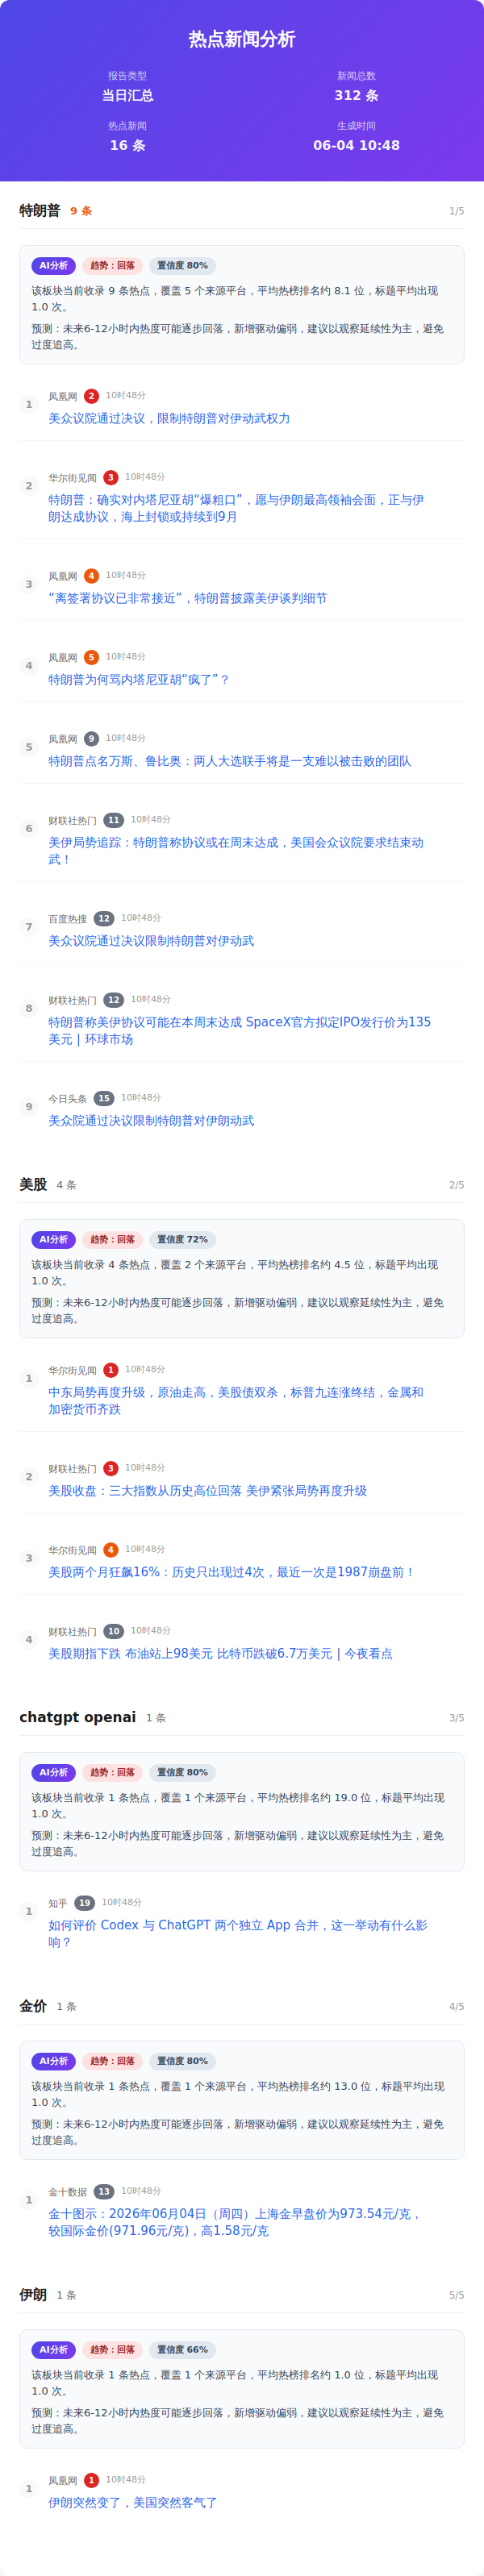
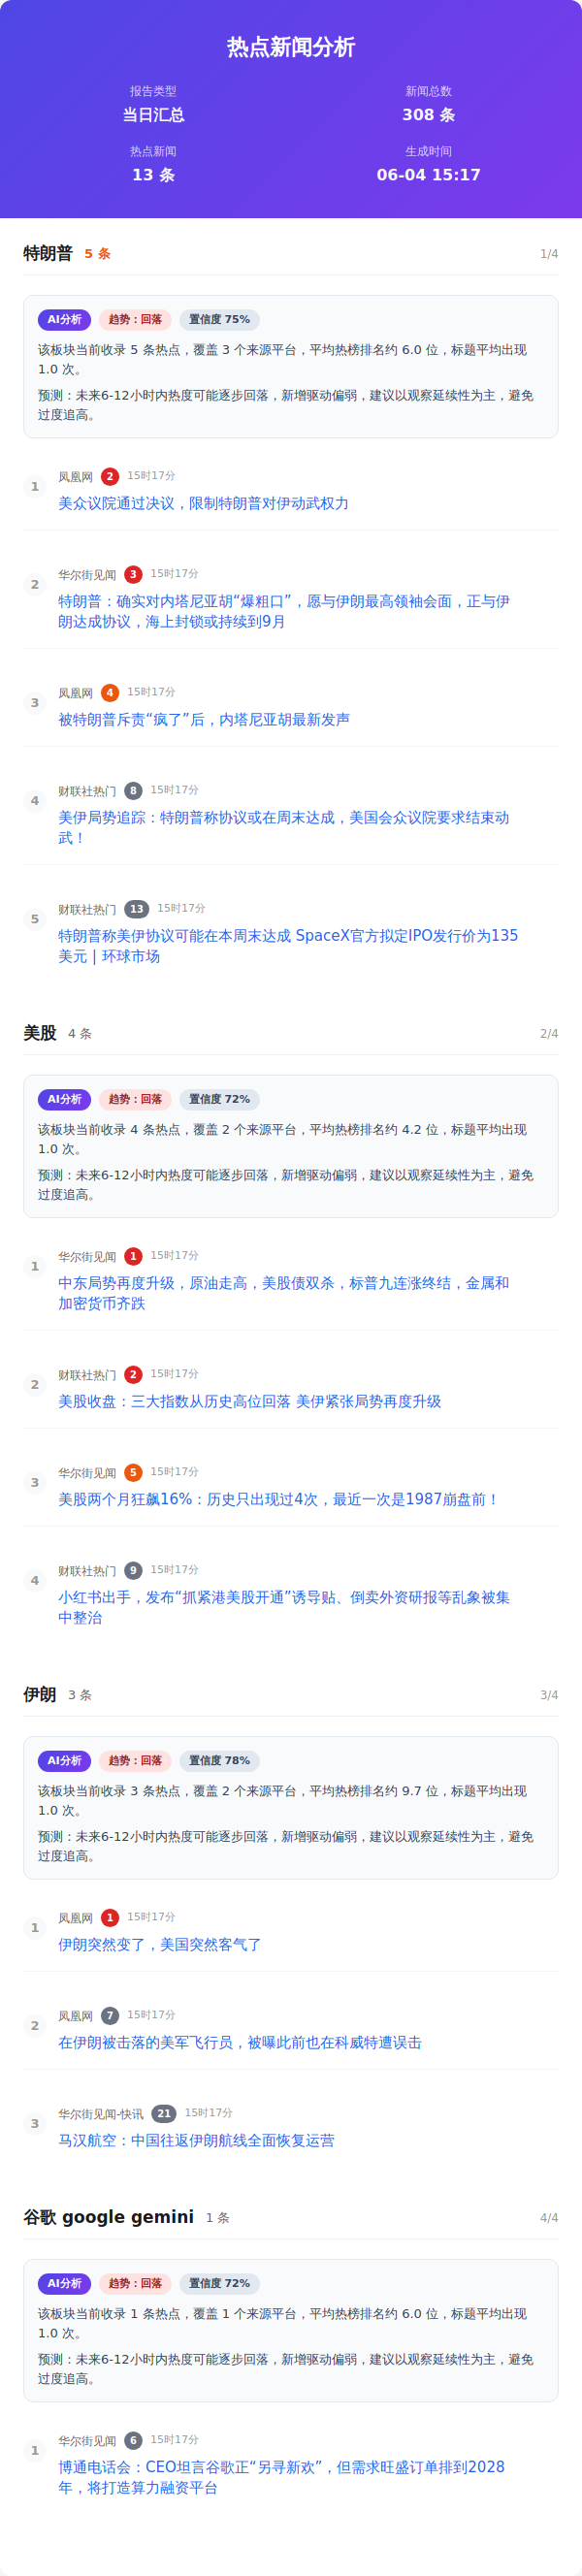
Auto update by GitHub Actions at Thu Jun  4 15:17:40 CST 2026

diff --git a/index.html b/index.html
@@ -455,15 +455,15 @@
                     </div>
                     <div class="info-item">
                         <span class="info-label">新闻总数</span>
-                        <span class="info-value">312 条</span>
+                        <span class="info-value">308 条</span>
                     </div>
                     <div class="info-item">
                         <span class="info-label">热点新闻</span>
-                        <span class="info-value">16 条</span>
+                        <span class="info-value">13 条</span>
                     </div>
                     <div class="info-item">
                         <span class="info-label">生成时间</span>
-                        <span class="info-value">06-04 10:48</span>
+                        <span class="info-value">06-04 15:17</span>
                     </div>
                 </div>
             </div>
@@ -473,24 +473,24 @@
                     <div class="word-header">
                         <div class="word-info">
                             <div class="word-name">特朗普</div>
-                            <div class="word-count warm">9 条</div>
+                            <div class="word-count warm">5 条</div>
                         </div>
-                        <div class="word-index">1/5</div>
+                        <div class="word-index">1/4</div>
                     </div>
                     <div class="ai-insight-card">
                         <div class="ai-insight-top">
                             <span class="ai-badge">AI分析</span>
                             <span class="trend-badge down">趋势：回落</span>
-                            <span class="confidence-pill">置信度 80%</span>
+                            <span class="confidence-pill">置信度 75%</span>
                         </div>
-                        <div class="ai-text">该板块当前收录 9 条热点，覆盖 5 个来源平台，平均热榜排名约 8.1 位，标题平均出现 1.0 次。</div>
+                        <div class="ai-text">该板块当前收录 5 条热点，覆盖 3 个来源平台，平均热榜排名约 6.0 位，标题平均出现 1.0 次。</div>
                         <div class="ai-text">预测：未来6-12小时内热度可能逐步回落，新增驱动偏弱，建议以观察延续性为主，避免过度追高。</div>
                     </div>
                     <div class="news-item ">
                         <div class="news-number">1</div>
                         <div class="news-content">
                             <div class="news-header">
-                                <span class="source-name">凤凰网</span><span class="rank-num top">2</span><span class="time-info">10时48分</span>
+                                <span class="source-name">凤凰网</span><span class="rank-num top">2</span><span class="time-info">15时17分</span>
                             </div>
                             <div class="news-title"><a href="https://news.ifeng.com/c/8tffKr5raZ8" target="_blank" class="news-link">美众议院通过决议，限制特朗普对伊动武权力</a>
                             </div>
@@ -500,7 +500,7 @@
                         <div class="news-number">2</div>
                         <div class="news-content">
                             <div class="news-header">
-                                <span class="source-name">华尔街见闻</span><span class="rank-num top">3</span><span class="time-info">10时48分</span>
+                                <span class="source-name">华尔街见闻</span><span class="rank-num top">3</span><span class="time-info">15时17分</span>
                             </div>
                             <div class="news-title"><a href="https://wallstreetcn.com/articles/3773781" target="_blank" class="news-link">特朗普：确实对内塔尼亚胡“爆粗口”，愿与伊朗最高领袖会面，正与伊朗达成协议，海上封锁或持续到9月</a>
                             </div>
@@ -510,9 +510,9 @@
                         <div class="news-number">3</div>
                         <div class="news-content">
                             <div class="news-header">
-                                <span class="source-name">凤凰网</span><span class="rank-num high">4</span><span class="time-info">10时48分</span>
+                                <span class="source-name">凤凰网</span><span class="rank-num high">4</span><span class="time-info">15时17分</span>
                             </div>
-                            <div class="news-title"><a href="https://news.ifeng.com/c/8tfYHflwBeK" target="_blank" class="news-link">“离签署协议已非常接近”，特朗普披露美伊谈判细节</a>
+                            <div class="news-title"><a href="https://news.ifeng.com/c/8tfsjOCN3Os" target="_blank" class="news-link">被特朗普斥责“疯了”后，内塔尼亚胡最新发声</a>
                             </div>
                         </div>
                     </div>
@@ -520,9 +520,9 @@
                         <div class="news-number">4</div>
                         <div class="news-content">
                             <div class="news-header">
-                                <span class="source-name">凤凰网</span><span class="rank-num high">5</span><span class="time-info">10时48分</span>
+                                <span class="source-name">财联社热门</span><span class="rank-num ">8</span><span class="time-info">15时17分</span>
                             </div>
-                            <div class="news-title"><a href="https://news.ifeng.com/c/8ter8XhY8eS" target="_blank" class="news-link">特朗普为何骂内塔尼亚胡“疯了”？</a>
+                            <div class="news-title"><a href="https://www.cls.cn/detail/2390202" target="_blank" class="news-link">美伊局势追踪：特朗普称协议或在周末达成，美国会众议院要求结束动武！</a>
                             </div>
                         </div>
                     </div>
@@ -530,49 +530,9 @@
                         <div class="news-number">5</div>
                         <div class="news-content">
                             <div class="news-header">
-                                <span class="source-name">凤凰网</span><span class="rank-num ">9</span><span class="time-info">10时48分</span>
-                            </div>
-                            <div class="news-title"><a href="https://news.ifeng.com/c/8tfpnbgvAEj" target="_blank" class="news-link">特朗普点名万斯、鲁比奥：两人大选联手将是一支难以被击败的团队</a>
-                            </div>
-                        </div>
-                    </div>
-                    <div class="news-item ">
-                        <div class="news-number">6</div>
-                        <div class="news-content">
-                            <div class="news-header">
-                                <span class="source-name">财联社热门</span><span class="rank-num ">11</span><span class="time-info">10时48分</span>
-                            </div>
-                            <div class="news-title"><a href="https://www.cls.cn/detail/2390202" target="_blank" class="news-link">美伊局势追踪：特朗普称协议或在周末达成，美国会众议院要求结束动武！</a>
-                            </div>
-                        </div>
-                    </div>
-                    <div class="news-item ">
-                        <div class="news-number">7</div>
-                        <div class="news-content">
-                            <div class="news-header">
-                                <span class="source-name">百度热搜</span><span class="rank-num ">12</span><span class="time-info">10时48分</span>
-                            </div>
-                            <div class="news-title"><a href="https://www.baidu.com/s?wd=%E7%BE%8E%E4%BC%97%E8%AE%AE%E9%99%A2%E9%80%9A%E8%BF%87%E5%86%B3%E8%AE%AE%E9%99%90%E5%88%B6%E7%89%B9%E6%9C%97%E6%99%AE%E5%AF%B9%E4%BC%8A%E5%8A%A8%E6%AD%A6" target="_blank" class="news-link">美众议院通过决议限制特朗普对伊动武</a>
-                            </div>
-                        </div>
-                    </div>
-                    <div class="news-item ">
-                        <div class="news-number">8</div>
-                        <div class="news-content">
-                            <div class="news-header">
-                                <span class="source-name">财联社热门</span><span class="rank-num ">12</span><span class="time-info">10时48分</span>
+                                <span class="source-name">财联社热门</span><span class="rank-num ">13</span><span class="time-info">15时17分</span>
                             </div>
                             <div class="news-title"><a href="https://www.cls.cn/detail/2390155" target="_blank" class="news-link">特朗普称美伊协议可能在本周末达成 SpaceX官方拟定IPO发行价为135美元 | 环球市场</a>
-                            </div>
-                        </div>
-                    </div>
-                    <div class="news-item ">
-                        <div class="news-number">9</div>
-                        <div class="news-content">
-                            <div class="news-header">
-                                <span class="source-name">今日头条</span><span class="rank-num ">15</span><span class="time-info">10时48分</span>
-                            </div>
-                            <div class="news-title"><a href="https://www.toutiao.com/trending/7646226299874426916/" target="_blank" class="news-link">美众院通过决议限制特朗普对伊朗动武</a>
                             </div>
                         </div>
                     </div>
@@ -583,7 +543,7 @@
                             <div class="word-name">美股</div>
                             <div class="word-count ">4 条</div>
                         </div>
-                        <div class="word-index">2/5</div>
+                        <div class="word-index">2/4</div>
                     </div>
                     <div class="ai-insight-card">
                         <div class="ai-insight-top">
@@ -591,14 +551,14 @@
                             <span class="trend-badge down">趋势：回落</span>
                             <span class="confidence-pill">置信度 72%</span>
                         </div>
-                        <div class="ai-text">该板块当前收录 4 条热点，覆盖 2 个来源平台，平均热榜排名约 4.5 位，标题平均出现 1.0 次。</div>
+                        <div class="ai-text">该板块当前收录 4 条热点，覆盖 2 个来源平台，平均热榜排名约 4.2 位，标题平均出现 1.0 次。</div>
                         <div class="ai-text">预测：未来6-12小时内热度可能逐步回落，新增驱动偏弱，建议以观察延续性为主，避免过度追高。</div>
                     </div>
                     <div class="news-item ">
                         <div class="news-number">1</div>
                         <div class="news-content">
                             <div class="news-header">
-                                <span class="source-name">华尔街见闻</span><span class="rank-num top">1</span><span class="time-info">10时48分</span>
+                                <span class="source-name">华尔街见闻</span><span class="rank-num top">1</span><span class="time-info">15时17分</span>
                             </div>
                             <div class="news-title"><a href="https://wallstreetcn.com/articles/3773742" target="_blank" class="news-link">中东局势再度升级，原油走高，美股债双杀，标普九连涨终结，金属和加密货币齐跌</a>
                             </div>
@@ -608,7 +568,7 @@
                         <div class="news-number">2</div>
                         <div class="news-content">
                             <div class="news-header">
-                                <span class="source-name">财联社热门</span><span class="rank-num top">3</span><span class="time-info">10时48分</span>
+                                <span class="source-name">财联社热门</span><span class="rank-num top">2</span><span class="time-info">15时17分</span>
                             </div>
                             <div class="news-title"><a href="https://www.cls.cn/detail/2390139" target="_blank" class="news-link">美股收盘：三大指数从历史高位回落 美伊紧张局势再度升级</a>
                             </div>
@@ -618,7 +578,7 @@
                         <div class="news-number">3</div>
                         <div class="news-content">
                             <div class="news-header">
-                                <span class="source-name">华尔街见闻</span><span class="rank-num high">4</span><span class="time-info">10时48分</span>
+                                <span class="source-name">华尔街见闻</span><span class="rank-num high">5</span><span class="time-info">15时17分</span>
                             </div>
                             <div class="news-title"><a href="https://wallstreetcn.com/articles/3773769" target="_blank" class="news-link">美股两个月狂飙16%：历史只出现过4次，最近一次是1987崩盘前！</a>
                             </div>
@@ -628,65 +588,9 @@
                         <div class="news-number">4</div>
                         <div class="news-content">
                             <div class="news-header">
-                                <span class="source-name">财联社热门</span><span class="rank-num ">10</span><span class="time-info">10时48分</span>
+                                <span class="source-name">财联社热门</span><span class="rank-num ">9</span><span class="time-info">15时17分</span>
                             </div>
-                            <div class="news-title"><a href="https://www.cls.cn/detail/2389957" target="_blank" class="news-link">美股期指下跌 布油站上98美元 比特币跌破6.7万美元 | 今夜看点</a>
-                            </div>
-                        </div>
-                    </div>
-                </div>
-                <div class="word-group">
-                    <div class="word-header">
-                        <div class="word-info">
-                            <div class="word-name">chatgpt openai</div>
-                            <div class="word-count ">1 条</div>
-                        </div>
-                        <div class="word-index">3/5</div>
-                    </div>
-                    <div class="ai-insight-card">
-                        <div class="ai-insight-top">
-                            <span class="ai-badge">AI分析</span>
-                            <span class="trend-badge down">趋势：回落</span>
-                            <span class="confidence-pill">置信度 80%</span>
-                        </div>
-                        <div class="ai-text">该板块当前收录 1 条热点，覆盖 1 个来源平台，平均热榜排名约 19.0 位，标题平均出现 1.0 次。</div>
-                        <div class="ai-text">预测：未来6-12小时内热度可能逐步回落，新增驱动偏弱，建议以观察延续性为主，避免过度追高。</div>
-                    </div>
-                    <div class="news-item ">
-                        <div class="news-number">1</div>
-                        <div class="news-content">
-                            <div class="news-header">
-                                <span class="source-name">知乎</span><span class="rank-num ">19</span><span class="time-info">10时48分</span>
-                            </div>
-                            <div class="news-title"><a href="https://www.zhihu.com/question/2045440339406762131" target="_blank" class="news-link">如何评价 Codex 与 ChatGPT 两个独立 App 合并，这一举动有什么影响？</a>
-                            </div>
-                        </div>
-                    </div>
-                </div>
-                <div class="word-group">
-                    <div class="word-header">
-                        <div class="word-info">
-                            <div class="word-name">金价</div>
-                            <div class="word-count ">1 条</div>
-                        </div>
-                        <div class="word-index">4/5</div>
-                    </div>
-                    <div class="ai-insight-card">
-                        <div class="ai-insight-top">
-                            <span class="ai-badge">AI分析</span>
-                            <span class="trend-badge down">趋势：回落</span>
-                            <span class="confidence-pill">置信度 80%</span>
-                        </div>
-                        <div class="ai-text">该板块当前收录 1 条热点，覆盖 1 个来源平台，平均热榜排名约 13.0 位，标题平均出现 1.0 次。</div>
-                        <div class="ai-text">预测：未来6-12小时内热度可能逐步回落，新增驱动偏弱，建议以观察延续性为主，避免过度追高。</div>
-                    </div>
-                    <div class="news-item ">
-                        <div class="news-number">1</div>
-                        <div class="news-content">
-                            <div class="news-header">
-                                <span class="source-name">金十数据</span><span class="rank-num ">13</span><span class="time-info">10时48分</span>
-                            </div>
-                            <div class="news-title"><a href="https://flash.jin10.com/detail/20260604101721647800" target="_blank" class="news-link">金十图示：2026年06月04日（周四）上海金早盘价为973.54元/克，较国际金价(971.96元/克)，高1.58元/克</a>
+                            <div class="news-title"><a href="https://www.cls.cn/detail/2390543" target="_blank" class="news-link">小红书出手，发布“抓紧港美股开通”诱导贴、倒卖外资研报等乱象被集中整治</a>
                             </div>
                         </div>
                     </div>
@@ -695,26 +599,74 @@
                     <div class="word-header">
                         <div class="word-info">
                             <div class="word-name">伊朗</div>
-                            <div class="word-count ">1 条</div>
+                            <div class="word-count ">3 条</div>
                         </div>
-                        <div class="word-index">5/5</div>
+                        <div class="word-index">3/4</div>
                     </div>
                     <div class="ai-insight-card">
                         <div class="ai-insight-top">
                             <span class="ai-badge">AI分析</span>
                             <span class="trend-badge down">趋势：回落</span>
-                            <span class="confidence-pill">置信度 66%</span>
+                            <span class="confidence-pill">置信度 78%</span>
                         </div>
-                        <div class="ai-text">该板块当前收录 1 条热点，覆盖 1 个来源平台，平均热榜排名约 1.0 位，标题平均出现 1.0 次。</div>
+                        <div class="ai-text">该板块当前收录 3 条热点，覆盖 2 个来源平台，平均热榜排名约 9.7 位，标题平均出现 1.0 次。</div>
                         <div class="ai-text">预测：未来6-12小时内热度可能逐步回落，新增驱动偏弱，建议以观察延续性为主，避免过度追高。</div>
                     </div>
                     <div class="news-item ">
                         <div class="news-number">1</div>
                         <div class="news-content">
                             <div class="news-header">
-                                <span class="source-name">凤凰网</span><span class="rank-num top">1</span><span class="time-info">10时48分</span>
+                                <span class="source-name">凤凰网</span><span class="rank-num top">1</span><span class="time-info">15时17分</span>
                             </div>
                             <div class="news-title"><a href="https://news.ifeng.com/c/8tfoNxuqYgl" target="_blank" class="news-link">伊朗突然变了，美国突然客气了</a>
+                            </div>
+                        </div>
+                    </div>
+                    <div class="news-item ">
+                        <div class="news-number">2</div>
+                        <div class="news-content">
+                            <div class="news-header">
+                                <span class="source-name">凤凰网</span><span class="rank-num ">7</span><span class="time-info">15时17分</span>
+                            </div>
+                            <div class="news-title"><a href="https://news.ifeng.com/c/8tenpfE2zdL" target="_blank" class="news-link">在伊朗被击落的美军飞行员，被曝此前也在科威特遭误击</a>
+                            </div>
+                        </div>
+                    </div>
+                    <div class="news-item ">
+                        <div class="news-number">3</div>
+                        <div class="news-content">
+                            <div class="news-header">
+                                <span class="source-name">华尔街见闻-快讯</span><span class="rank-num ">21</span><span class="time-info">15时17分</span>
+                            </div>
+                            <div class="news-title"><a href="https://wallstreetcn.com/livenews/3114237" target="_blank" class="news-link">马汉航空：中国往返伊朗航线全面恢复运营</a>
+                            </div>
+                        </div>
+                    </div>
+                </div>
+                <div class="word-group">
+                    <div class="word-header">
+                        <div class="word-info">
+                            <div class="word-name">谷歌 google gemini</div>
+                            <div class="word-count ">1 条</div>
+                        </div>
+                        <div class="word-index">4/4</div>
+                    </div>
+                    <div class="ai-insight-card">
+                        <div class="ai-insight-top">
+                            <span class="ai-badge">AI分析</span>
+                            <span class="trend-badge down">趋势：回落</span>
+                            <span class="confidence-pill">置信度 72%</span>
+                        </div>
+                        <div class="ai-text">该板块当前收录 1 条热点，覆盖 1 个来源平台，平均热榜排名约 6.0 位，标题平均出现 1.0 次。</div>
+                        <div class="ai-text">预测：未来6-12小时内热度可能逐步回落，新增驱动偏弱，建议以观察延续性为主，避免过度追高。</div>
+                    </div>
+                    <div class="news-item ">
+                        <div class="news-number">1</div>
+                        <div class="news-content">
+                            <div class="news-header">
+                                <span class="source-name">华尔街见闻</span><span class="rank-num ">6</span><span class="time-info">15时17分</span>
+                            </div>
+                            <div class="news-title"><a href="https://wallstreetcn.com/articles/3773814" target="_blank" class="news-link">博通电话会：CEO坦言谷歌正“另寻新欢”，但需求旺盛订单排到2028年，将打造算力融资平台</a>
                             </div>
                         </div>
                     </div>